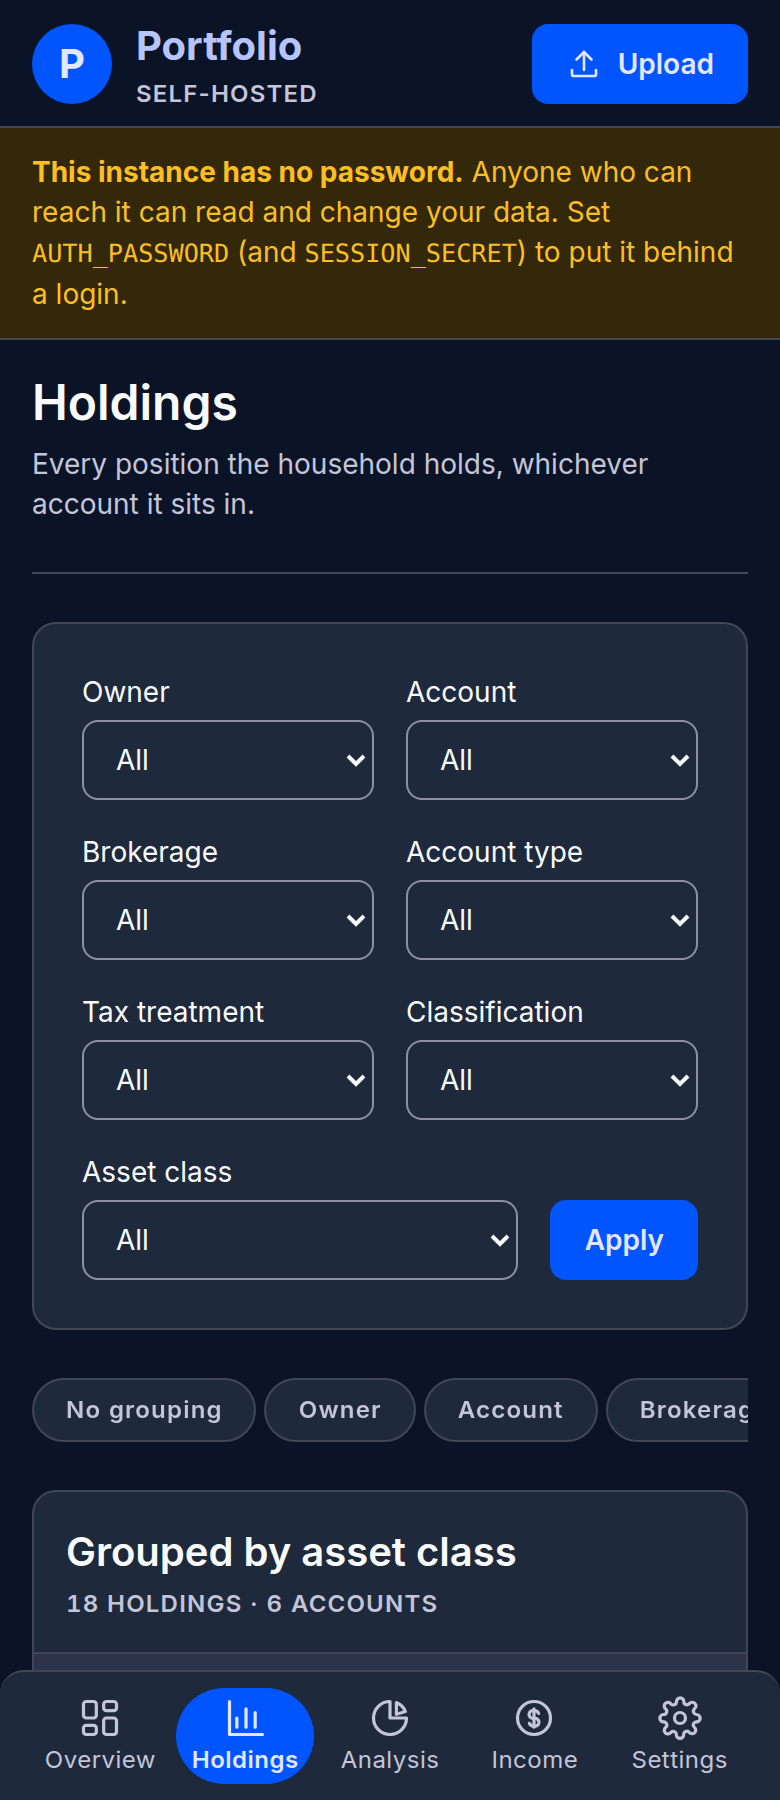
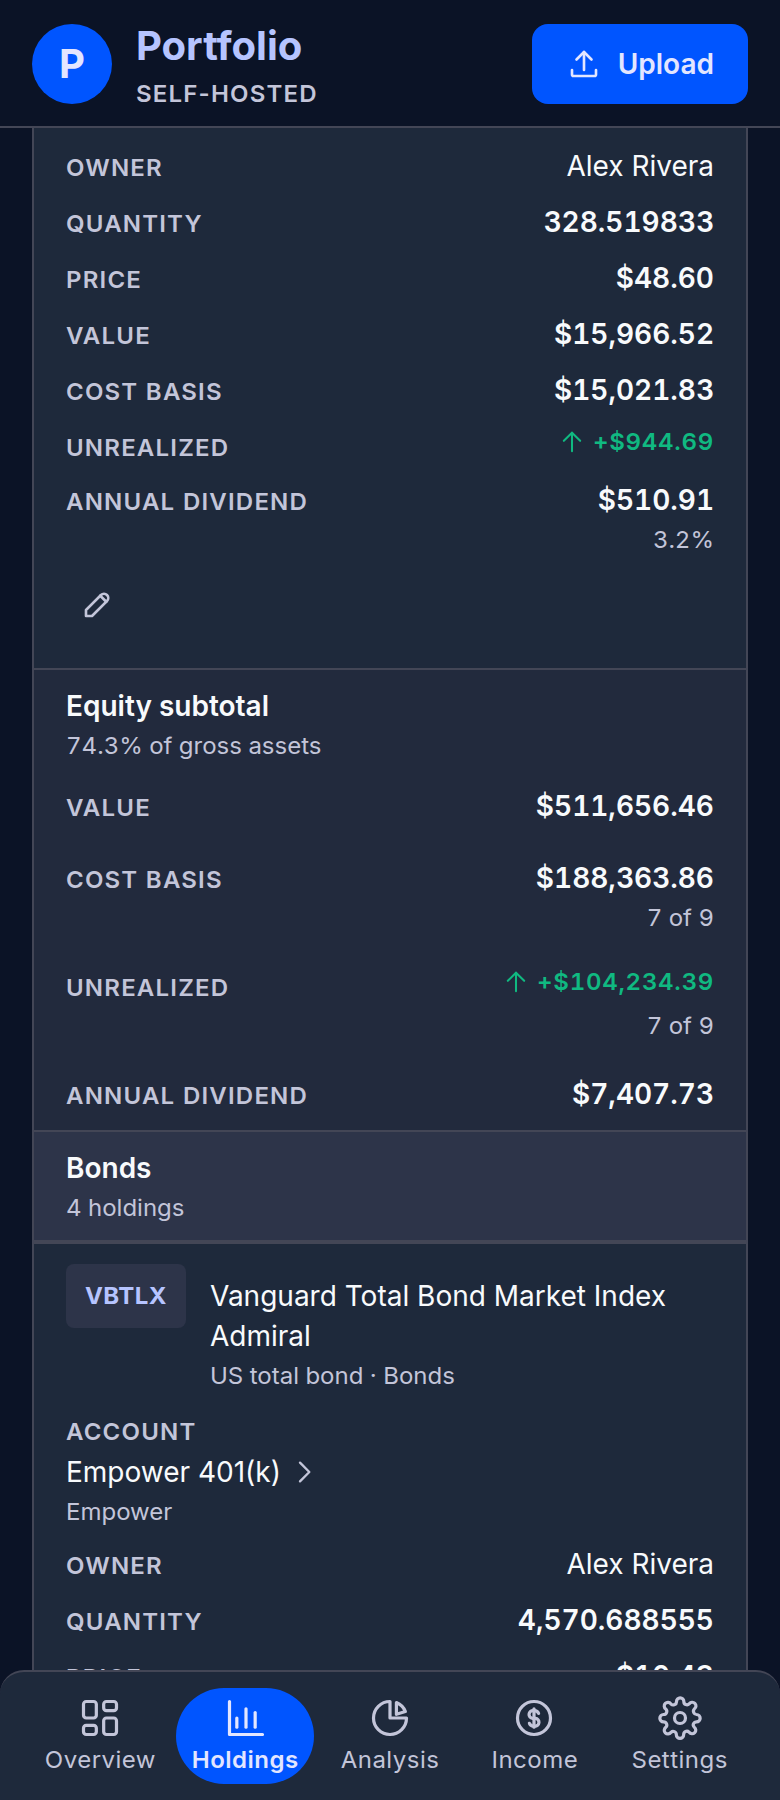
Resolve the capture script's conflict, and capture the reflow properly
The previous commit resolved a merge with `git add -A` and swallowed a conflict
marker into `scripts/capture-screenshots.ts`, which meant the capture that
commit claimed to have run had in fact died on a parse error and the two images
it committed were the unresolved binaries. `npm run typecheck` caught it —
TS1185, the one gate that reads that file.

The conflict itself was both branches adding the same shot: the base introduced
it, and this branch carried its own copy from an earlier merge. The base's side
wins because it has the scroll-to-subtotal fix, without which the shot frames the
filter bar and none of the cards.

The images here are captured from the resolved tree and show what this change is
for: one continuous subtotal strip where there were four bands separated by
white gutters, and four figures sharing a right edge where three of them parked
mid-row.

Claude-Session: https://claude.ai/code/session_01NzwzjZX6i5nd4rB8AM84Uo

diff --git a/scripts/capture-screenshots.ts b/scripts/capture-screenshots.ts
@@ -438,8 +438,6 @@ async function captureReadme(browser: Browser, pool: Pool, fixture: Fixture): Pr
     // heading, the subtotal strip and the grand total are three of the things
     // the reflow has to get right and all three are only visible grouped.
     await visit(phone, "/holdings?group=assetClass");
-<<<<<<< HEAD
-=======
     // Scrolled to a subtotal, not left at the top. A phone shot is one 900px
     // viewport and the top of this page is the filter bar and the panel header
     // — the cards do not start until below the fold, so an unscrolled shot
@@ -448,7 +446,6 @@ async function captureReadme(browser: Browser, pool: Pool, fixture: Fixture): Pr
       document.querySelector(".row-subtotal")?.scrollIntoView({ block: "center" });
     });
     await phone.evaluate(() => document.fonts.ready);
->>>>>>> origin/claude/visual-sweep-tables
     await shoot(phone, `docs/screenshots/holdings-mobile-${theme}.png`, false);
     await phone.close();
   }
